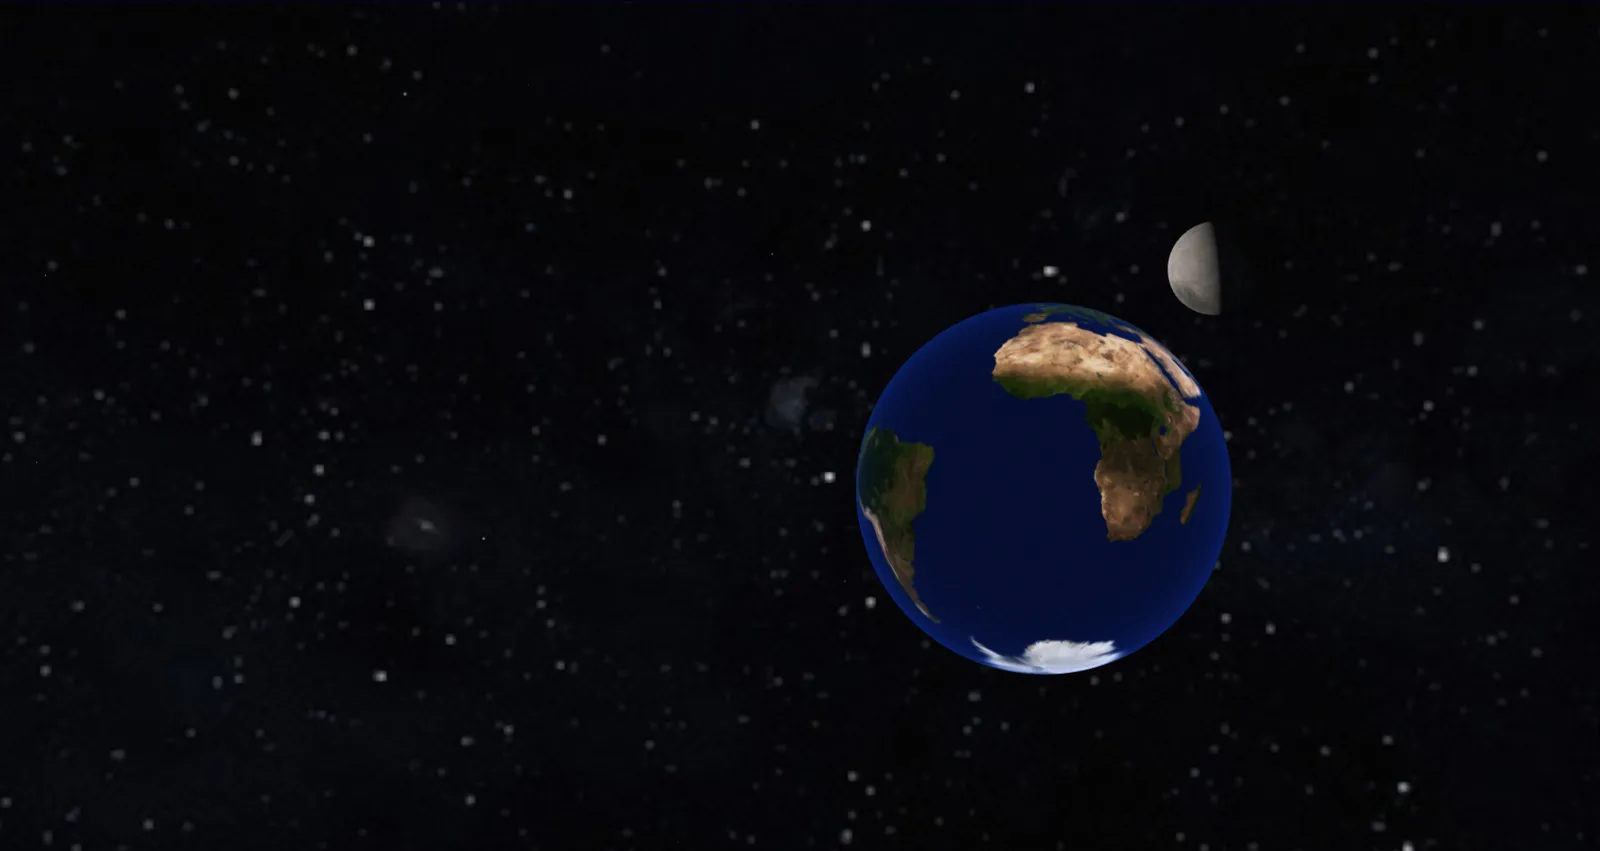
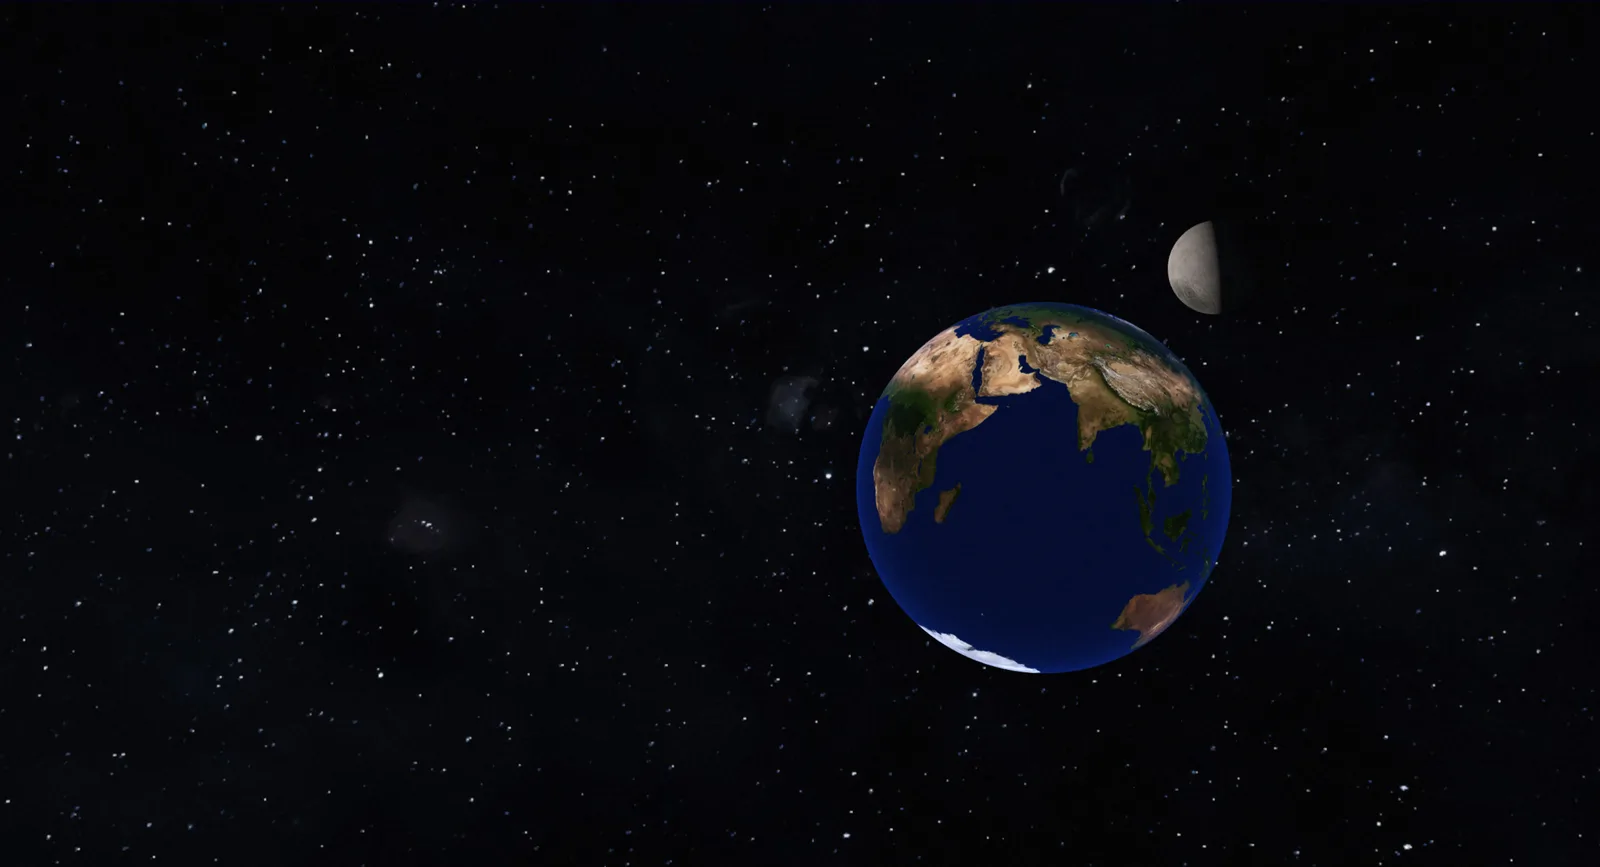
feat(landing): sharpen the hero - 4K Earth, 8K stars, anisotropic filtering
On high-res displays the hero looked soft: the Earth used a 2K map with no
anisotropic filtering, so it blurred badly toward the limb, and the star
backdrop was a 2K map.

- Earth: switch to a 4K day/night map (downscaled from Solar System Scope's
  8K, CC BY 4.0; ~1MB + 0.5MB).
- Stars: use the 8K Milky Way map already in the repo.
- Enable max anisotropic filtering on all textures - the main fix for the
  limb smear.
- Regenerate the fallback poster from the now-sharp scene.

diff --git a/src/components/features/landing/HeroScene.tsx b/src/components/features/landing/HeroScene.tsx
@@ -19,10 +19,10 @@ import { useEffect, useRef } from 'react'
 import * as THREE from 'three'
 import { getSunDirection, getMoonIllumination } from '@/lib/celestial'
 
-const EARTH_DAY = '/solar-system/textures/earth_daymap.jpg'
-const EARTH_NIGHT = '/solar-system/textures/earth_nightmap.jpg'
+const EARTH_DAY = '/solar-system/textures/4k_earth_daymap.jpg'
+const EARTH_NIGHT = '/solar-system/textures/4k_earth_nightmap.jpg'
 const MOON_TEX = '/images/hero-moon.jpg'
-const STAR_TEX = '/solar-system/textures/stars_milky_way.jpg'
+const STAR_TEX = '/solar-system/textures/8k_stars_milky_way.jpg'
 
 const EARTH_VERT = /* glsl */ `
   varying vec2 vUv;
@@ -109,6 +109,11 @@ export function HeroScene({ onReady }: { onReady?: () => void }) {
     starTex.colorSpace = THREE.SRGBColorSpace
     starTex.mapping = THREE.EquirectangularReflectionMapping
     scene.background = starTex
+
+    // Anisotropic filtering keeps the Earth and star map crisp at grazing
+    // angles (the limb) instead of smearing - the main "not sharp" culprit.
+    const maxAniso = renderer.capabilities.getMaxAnisotropy()
+    ;[dayTex, nightTex, moonTex, starTex].forEach((t) => (t.anisotropy = maxAniso))
 
     // Earth (layer 0), lit by the real sub-solar direction
     const earth = new THREE.Mesh(